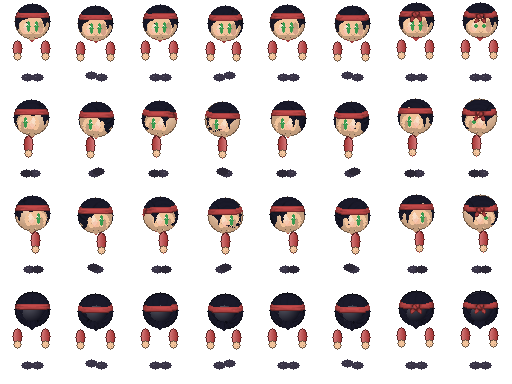
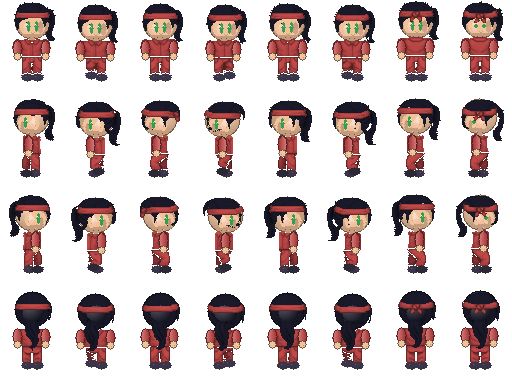
fix: setAlpha in Sheet must set alpha=255 to match game's PixelSheet
AI component sprites were stamped on transparent pixels but alpha stayed 0,
making hair/outfits invisible. Now setAlpha sets the alpha channel to 255
just like the runtime PixelSheet implementation.

diff --git a/scripts/generate-assets.ts b/scripts/generate-assets.ts
@@ -143,7 +143,7 @@ class Sheet implements DrawSurface {
     d[i] = Math.round(d[i] * (1 - a) + r * a);
     d[i + 1] = Math.round(d[i + 1] * (1 - a) + g * a);
     d[i + 2] = Math.round(d[i + 2] * (1 - a) + b * a);
-    // alpha channel stays 255 (opaque) since background is always filled
+    d[i + 3] = 255;
   }
 
   /** Filled circle using midpoint algorithm. */
